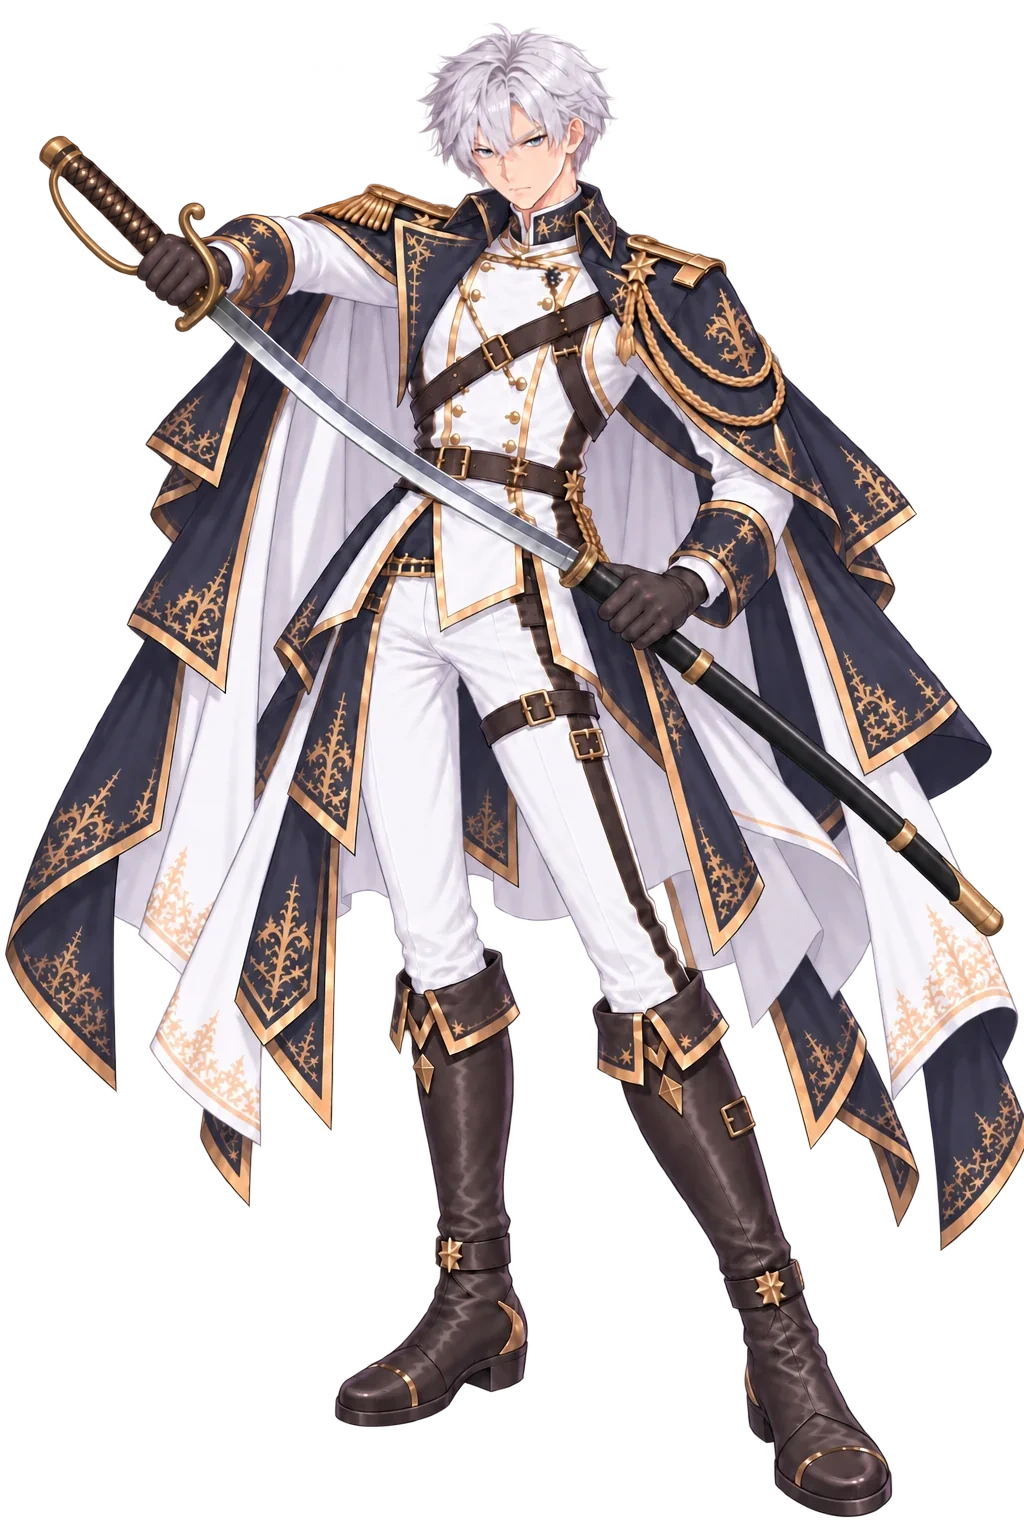
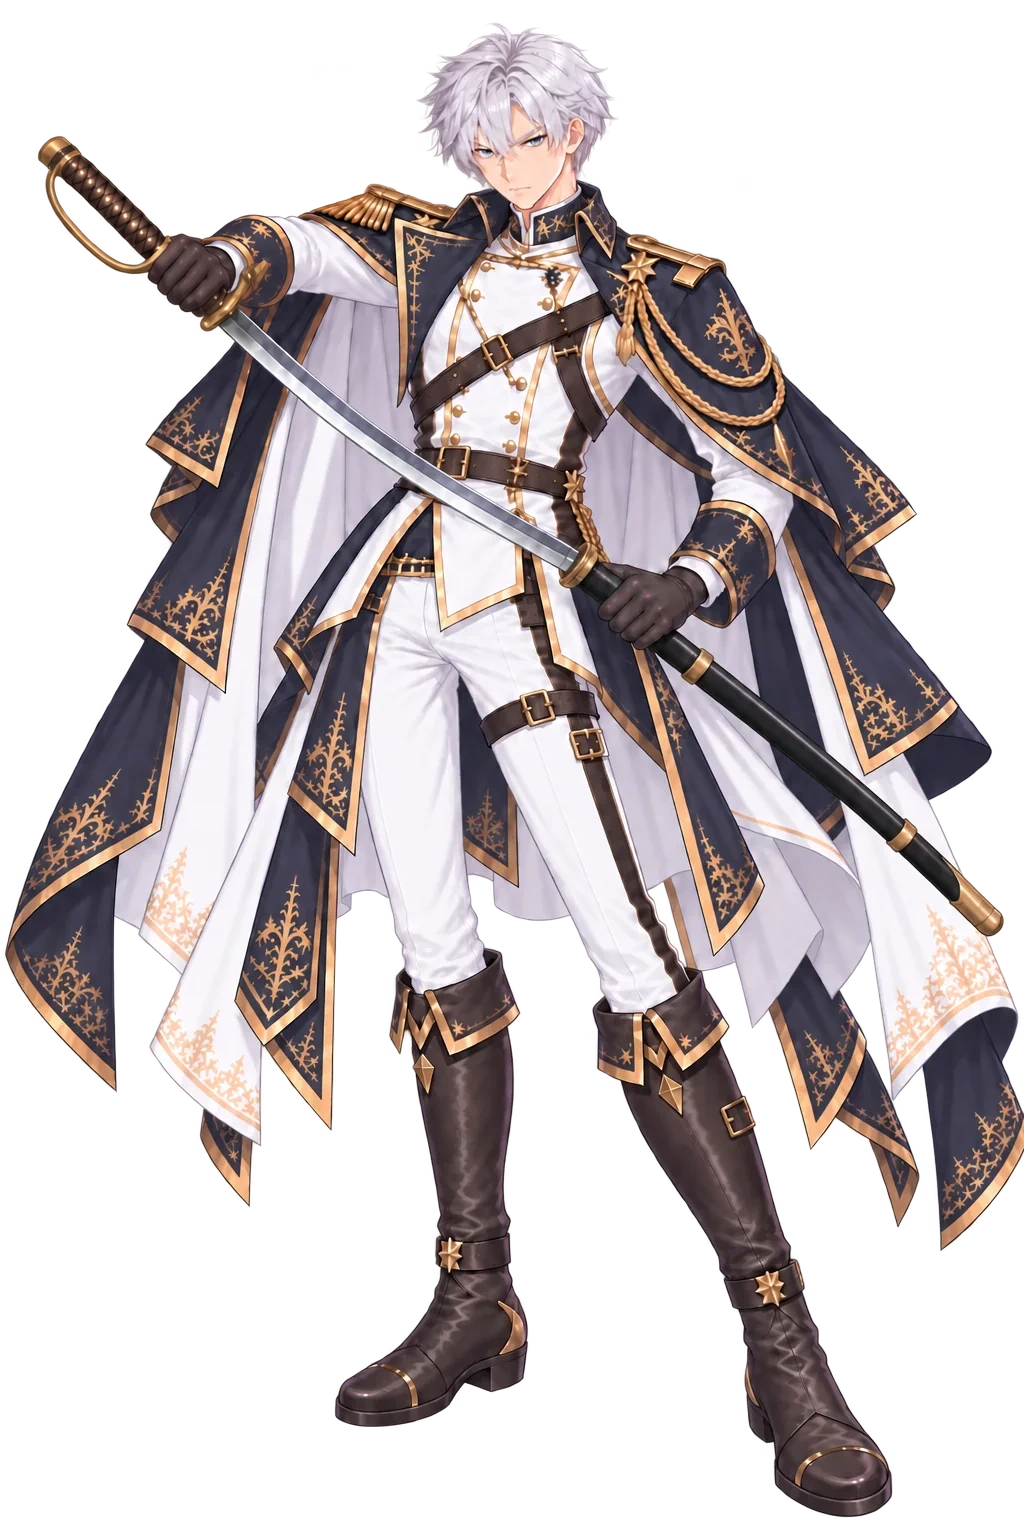
art(米夏): draw／drawopen 護手第三版 —— 整片鍔含鍔尖移到拳頭下方，弓從柄頭繞指節接進鍔
Ray：「護弓要連到護手 手不可能握在護弓之上」（第二版退件）

v2 的 S 形鍔尖還在拳頭右上方、鍔穿過拳頭。v3 提示詞改用畫面方位寫順序
（柄頭左上 → 纏繩柄／拳頭 → 整片鍔含鍔尖在拳頭右下方 → 刀身），並獨立點名
「鍔尖不可以出現在拳頭上方或旁邊」「拳頭上方只有柄與柄頭」，第三則過。

· 仍只拼刀柄＋拳頭區回原圖（臉 0 px、邊界帶色差 5.2、刀身沒位移）
· q92 第二代、alpha 零誤差、近白 0%；top/bot 22/1516 不變
· v2 webp 走 recycle.sh；工單附三改寫成三版的病因與「看鍔尖在拳頭哪一側」的驗收教訓

⚠ 程式端要接：speakers.js draw ?v=2→3、drawopen 加 ?v=2（HANDOFF 標頭第 4 條已掛）

Changed region(s): [[0.0312, 0.0938, 0.2812, 0.2188], [0.3438, 0.125, 0.375, 0.1562]]

diff --git a/resources/si/_misha_program_worklist.md b/resources/si/_misha_program_worklist.md
@@ -184,33 +184,37 @@ Ray 這一輪追加的一件 ＋ 早上留下的三件：
 ③ 我在這台先把提示詞送出、圖下載到 Windows 的 `~/Downloads`，Ray 手動搬進 repo 再由這邊量刀長／交件。
 
 
-## 附三、2026-09-24 晚（Windows 那台）：`draw` 護手接回鍔 —— ✔ 已交件（第二版）
+## 附三、2026-09-24 晚（Windows 那台）：`draw` 護弓接到護手 —— ✔ 已交件（第三版）
 
-Ray：「先做 draw 那張，護指接到護手」→ 第一版交出去被退：「仔細看圖 問題根本沒解決」。
+Ray：「先做 draw 那張，護指接到護手」→ 退兩次：「仔細看圖 問題根本沒解決」「護弓要連到護手 手不可能握在護弓之上」。
 
-⚠⚠⚠ **真正的病不是「弓的下端有沒有接」，是整個護手的位置錯了**（第一版只盯著弓的末端，沒看結構）：
-· 原圖把**鍔（帶 S 形鍔尖的黃銅護手片）畫在拳頭上方**，拳頭反而握在鍔與刀身之間；
-· 弓的下端在拳頭下方另外捲一個圈 —— 護手被拳頭切成上下兩截。
-正確結構（照 `chikushoudou.webp`）：柄頭 → 纏繩長柄（**拳頭握在這裡、在弓裡面**）→ 鍔（一側 S 形鍔尖、另一側接弓）→ 刀身。
+⚠⚠⚠ **病不在弓的末端，在護手的位置**。原圖與前兩版的錯法：
+· v0（原圖）：鍔（帶 S 形鍔尖的黃銅片）畫在拳頭上方，弓的下端在拳頭下方另捲一圈 —— 護手被拳頭切成兩截。
+· v1：只把弓末端黏上去，結構照舊 ⇒ 退。
+· v2：拳頭改握在柄上了，但 **S 形鍔尖還在拳頭右上方、鍔穿過拳頭** ⇒ 拳頭等於握在護手上 ⇒ 退。
+· **v3（交件）**：沿刀的斜線由左上到右下 ＝ 柄頭 → 纏繩柄（拳頭握這裡，在弓裡面）→ **整片鍔含 S 形鍔尖都在拳頭右下方、刀身根部** → 刀身；弓從柄頭繞過指節外側接進鍔。
 
-**有效的提示詞寫法**：先把原圖的錯法逐條寫出來（「鍔被畫在拳頭上方」「弓在拳頭下方另捲一圈」），
-再寫「從柄頭往刀尖的順序」四條，明寫「弓與鍔之間不可以有拳頭、不可以斷開、不可以另外再捲一個圈」。
-只寫「弓要接到鍔」它會照原圖的錯結構把末端黏上去（第一版就是這樣）。
-同一串第二則、不附圖，一次過（沒被擋）。
+**有效的提示詞寫法（第三則才過）**：
+1. 先逐條寫「原圖／上一張錯在哪」（S 形鍔尖在拳頭上方、鍔穿過拳頭、弓下端另捲一圈）。
+2. **用畫面方位講順序**：「這把刀是柄頭左上、刀尖右下的斜線，沿線由左上到右下必須是 ①柄頭 ②纏繩柄 ③拳頭 ④鍔（S 形鍔尖從鍔背側伸出，**所以鍔尖也在拳頭右下方**）⑤刀身」。
+3. ⛔ 清單：「拳頭上方除了纏繩柄與柄頭不可以出現任何黃銅護手零件」「鍔尖不可以出現在拳頭上方或旁邊」。
+只寫「弓要接到鍔」或「鍔在柄與刀身之間」都不夠 —— 模型會把 S 形鍔尖留在拳頭上方，然後把弓接到拳頭下面。**要把鍔尖的位置獨立點名。**
+同一串不附圖連送三則，一次都沒被擋。
 
-**拼接**：GPT 仍整張微重畫（不透明區 12%、臉 9.5%）⇒ 只取刀柄＋拳頭框（x 0~340、y 110~390）內的改動像素，
-膨脹 13 px、羽化 2.5 px，RGB 與 alpha 都在遮罩內取 GPT 版。臉區 0 px 改動；遮罩邊界帶平均色差 5.7（袖口無接縫）。
+**拼接**：GPT 每一版都整張微重畫（臉區約 10%）⇒ 只取刀柄＋拳頭框（x 0~360、y 110~400）內的改動像素，
+膨脹 13 px、羽化 2.5 px，RGB 與 alpha 都在遮罩內取 GPT 版。臉區 0 px；邊界帶平均色差 5.2；框外不透明區改動 218 px（刀身沒位移）。
 
 | 檔 | top | bot | fx（量測） | 交件 |
 |---|---|---|---|---|
 | `misha_si_draw.webp` | 22 | 1516 | 0.504（被刀柄拉偏，**沿用表上的 0.46**） | q92 第二代，alpha 零誤差、近白 0% |
 | `misha_si_drawopen.webp` | 22 | 1516 | 同上 | 同一張遮罩（兩張的刀柄區原本只差 5 px） |
 
-原檔：`_originals/si/misha_si_draw_guardfix_gpt.png`（GPT 第二版整張）、`misha_si_draw_guardfix_src.png`／
-`misha_si_drawopen_guardfix_src.png`（拼接後母版）。舊 webp 與第一版都在 `_recycle/`。
+原檔：`_originals/si/misha_si_draw_guardfix_gpt.png`（GPT v3 整張）、`misha_si_draw_guardfix_src.png`／
+`misha_si_drawopen_guardfix_src.png`（拼接後母版）。舊 webp、v1、v2 都在 `_recycle/`。
 
 ⚠⚠ **程式端要接（鐵律 11）**：同名覆蓋 ⇒ `speakers.js:1486` `draw` 的 `?v=2`→`?v=3`；
 `speakers.js:1498` `drawopen` 現在**沒有版號**，要加 `?v=2`。`top/bot/fx` 都不用動。
 
-⚠ **驗收教訓**：看刀柄不能只看「線有沒有連上」，要看**順序**（柄頭→柄→拳頭→鍔→刀身）對不對。
-第一版的 3 倍裁切我看過、也說「接回鍔了」—— 錯在沒對照設定圖檢查拳頭與鍔的相對位置。
+⚠ **驗收教訓（兩次退件換來的）**：看刀柄要對著設定圖核**零件的順序與相對位置**（柄頭→柄→拳頭→鍔→刀身），
+特別是 **S 形鍔尖在拳頭的哪一側** —— 它在拳頭上方就是錯，不管弓有沒有連上。3 倍裁切我兩次都「看過」，
+兩次都只看了線有沒有接，沒看順序。

diff --git a/resources/_HANDOFF_ART_20260924.md b/resources/_HANDOFF_ART_20260924.md
@@ -132,14 +132,16 @@
 
 ---
 
-## 八、2026-09-24 晚（Windows 那台）：米夏 `draw` 護手 —— ✔ 交件（第二版）
+## 八、2026-09-24 晚（Windows 那台）：米夏 `draw` 護手 —— ✔ 交件（第三版）
 
-- 第一版被 Ray 退（「問題根本沒解決」）：我只把弓的末端接上，**鍔還在拳頭上方**。真正的病是護手整個位置錯，
-  第二版把「柄頭→柄（拳頭握這裡）→鍔→刀身」的順序寫死才過。細節、提示詞寫法、數字在 `si/_misha_program_worklist.md` **附三**。
+- 退兩次才過：v1 只黏弓的末端；v2 的 S 形鍔尖仍在拳頭上方（Ray：「手不可能握在護弓之上」）。
+  v3 把「柄頭→柄（拳頭）→整片鍔含鍔尖→刀身」的**畫面方位**寫死、並獨立點名鍔尖的位置才過。
+  提示詞寫法、數字、驗收教訓在 `si/_misha_program_worklist.md` **附三**。
 - `draw`／`drawopen` 都交了（本機只拼刀柄＋拳頭區回原圖，臉 0 px 改動）。
 - **程式端要接**：`speakers.js` `draw` `?v=2→3`、`drawopen` 加 `?v=2`；取景值不變。
 - ⚠ 這台**沒有** `_originals/si/misha_si_close_natural_src.png`（§七寫「那台有」是錯的 —— `_originals/` 只有
   `SI_ext` 與 `_matting_eval`，下載夾也沒有），`close` 自然站姿要重新向 GPT 要。
 - 米夏待修剩下：`close` 自然站姿 → `closeopen` 重做；刀長不合格 7 張等 Ray。
+  ⚠ 那 7 張若重畫，**鍔與鍔尖的位置照附三那段寫**，不然會再犯同一個錯。
 - ChatGPT 那串：`https://chatgpt.com/c/6ab538d4-7dc4-83e8-a53d-8b8f0f3f3450`（原稿與刀圖都掛在最上面，
   接下去做 `close` 可以直接沿用，不必重傳）。
